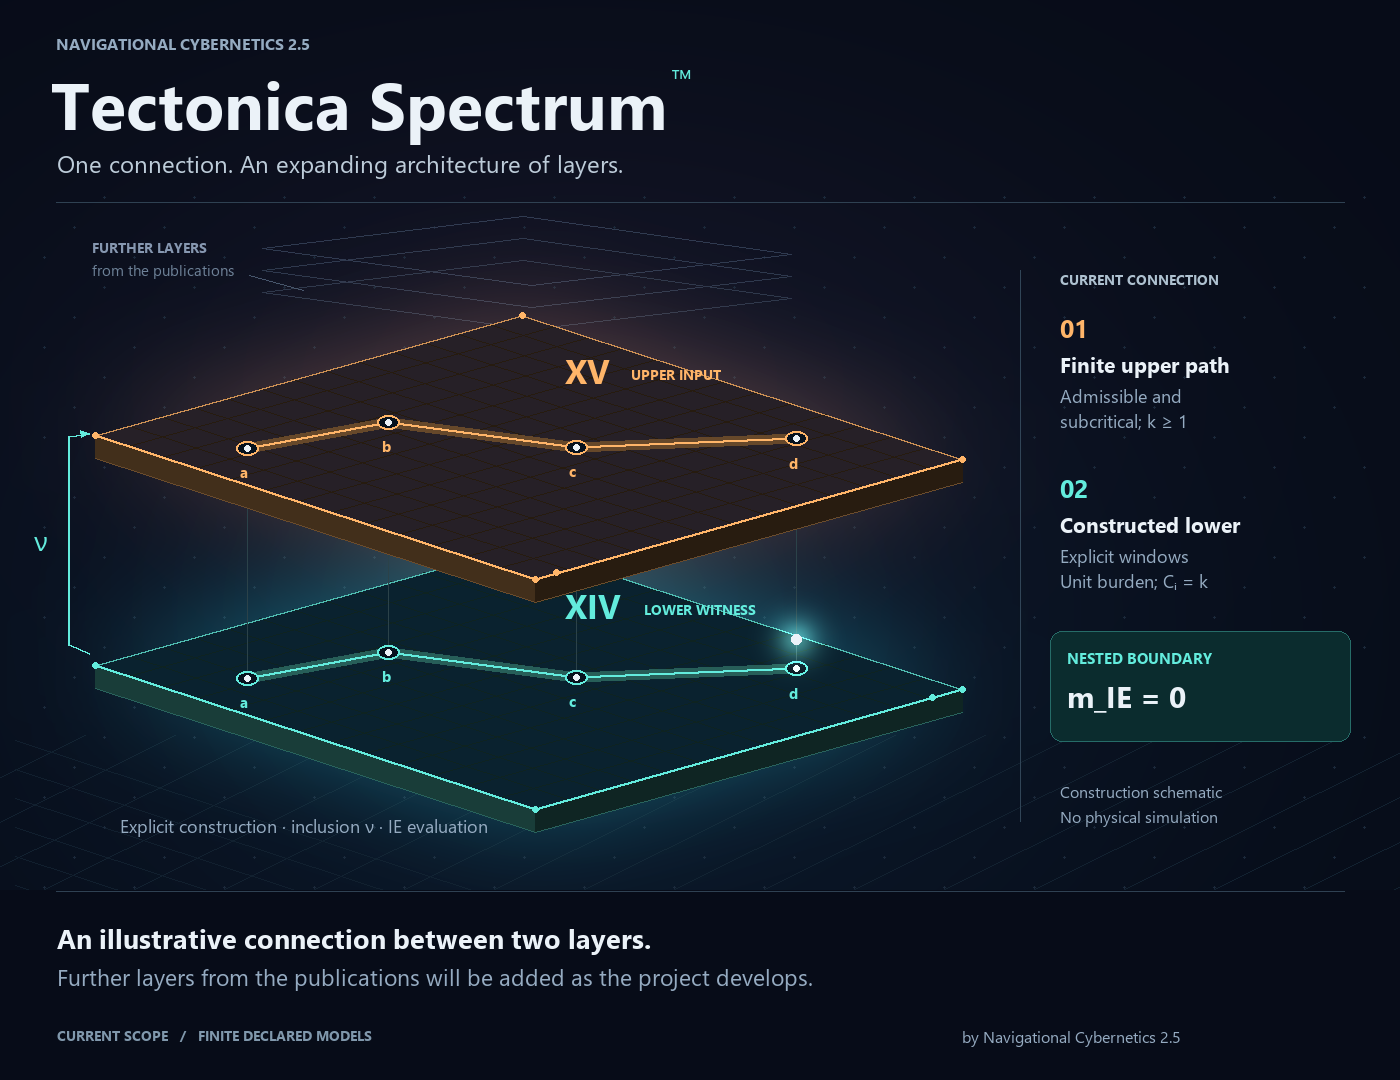
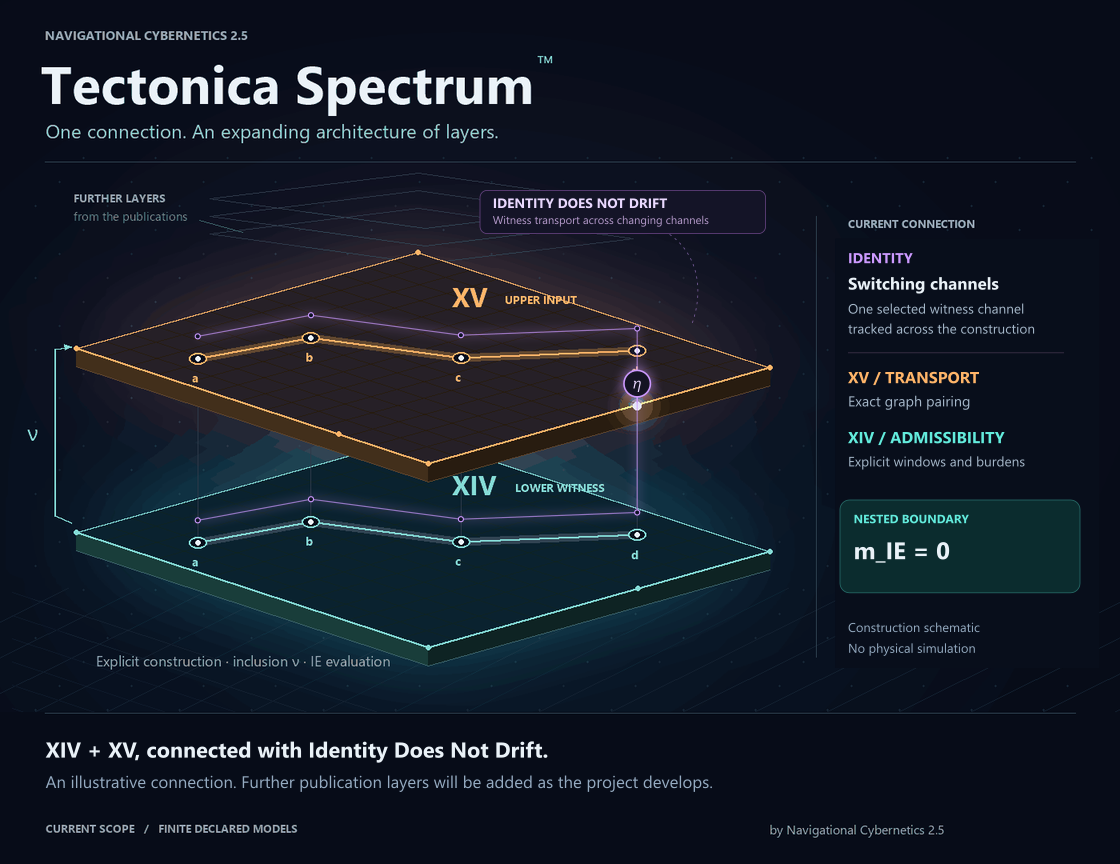
Illustrate Identity witness transport in the layer animation

diff --git a/README.md b/README.md
@@ -1,5 +1,5 @@
 <p align="center">
-  <img src="assets/layers.gif" alt="Animated illustrative connection between ONTOΣ XIV and XV, with further publication layers shown as future additions." width="1200">
+  <img src="assets/layers.gif" alt="Animated XIV/XV construction with Identity witness transport shown as a violet thread across the two planes, with future publication layers above." width="1200">
 </p>
 
 <p align="center">
@@ -16,8 +16,9 @@ Identity Does Not Drift. It combines finite Independent Exhaustion, graph
 transport and the history of channel switching. Further publication layers can
 be added through explicit connections.
 
-The animation above illustrates the original XIV/XV connection. The Identity
-connection is specified and exercised below; it is not depicted in that image.
+The animation illustrates the XIV/XV construction with Identity's witness
+transport shown as a violet thread across the two planes. The underlying
+connections and their limits are specified below.
 
 ## Scope and limits
 
